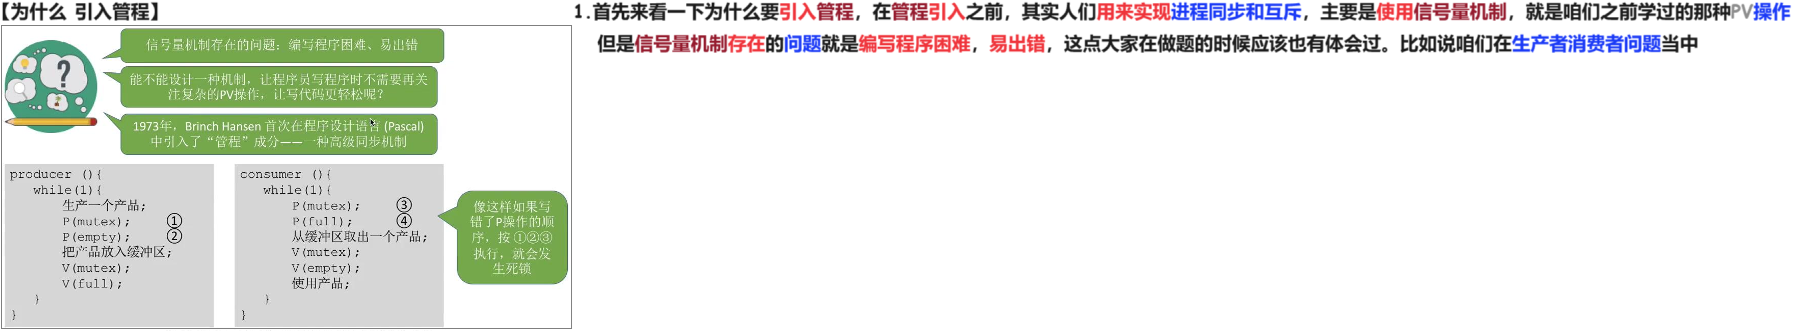
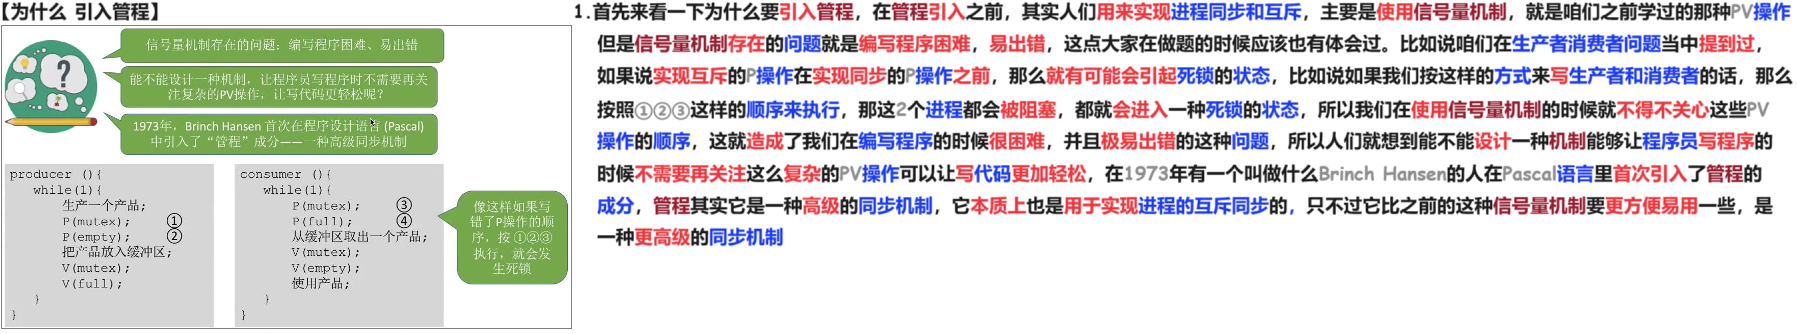
240505

diff --git a/01 初试/01 OS/02 24 25 王道/01 基础/02 进程 线程/03 同步 互斥/07 管程 240505/02 Doc.md b/01 初试/01 OS/02 24 25 王道/01 基础/02 进程 线程/03 同步 互斥/07 管程 240505/02 Doc.md
@@ -9,3 +9,9 @@
 
 
 # 02 为什么要引入管程
+
+<img src="https://cvp.oss-cn-shanghai.aliyuncs.com/picgo/202405052203869.png" alt="image-20240505220348743" style="zoom:50%;" />
+
+
+
+# 03 管程 定义 基本特征

diff --git a/01 初试/01 OS/02 24 25 王道/01 基础/02 进程 线程/03 同步 互斥/08 生产者-消费者问题 240505/02 Doc.md b/01 初试/01 OS/02 24 25 王道/01 基础/02 进程 线程/03 同步 互斥/08 生产者-消费者问题 240505/02 Doc.md
@@ -26,4 +26,6 @@
 
 
 
-# 05 
+# 05 知识回顾与重要考点
+
+<img src="https://cvp.oss-cn-shanghai.aliyuncs.com/picgo/202405052150783.png" alt="image-20240505215040658" style="zoom:50%;" />
